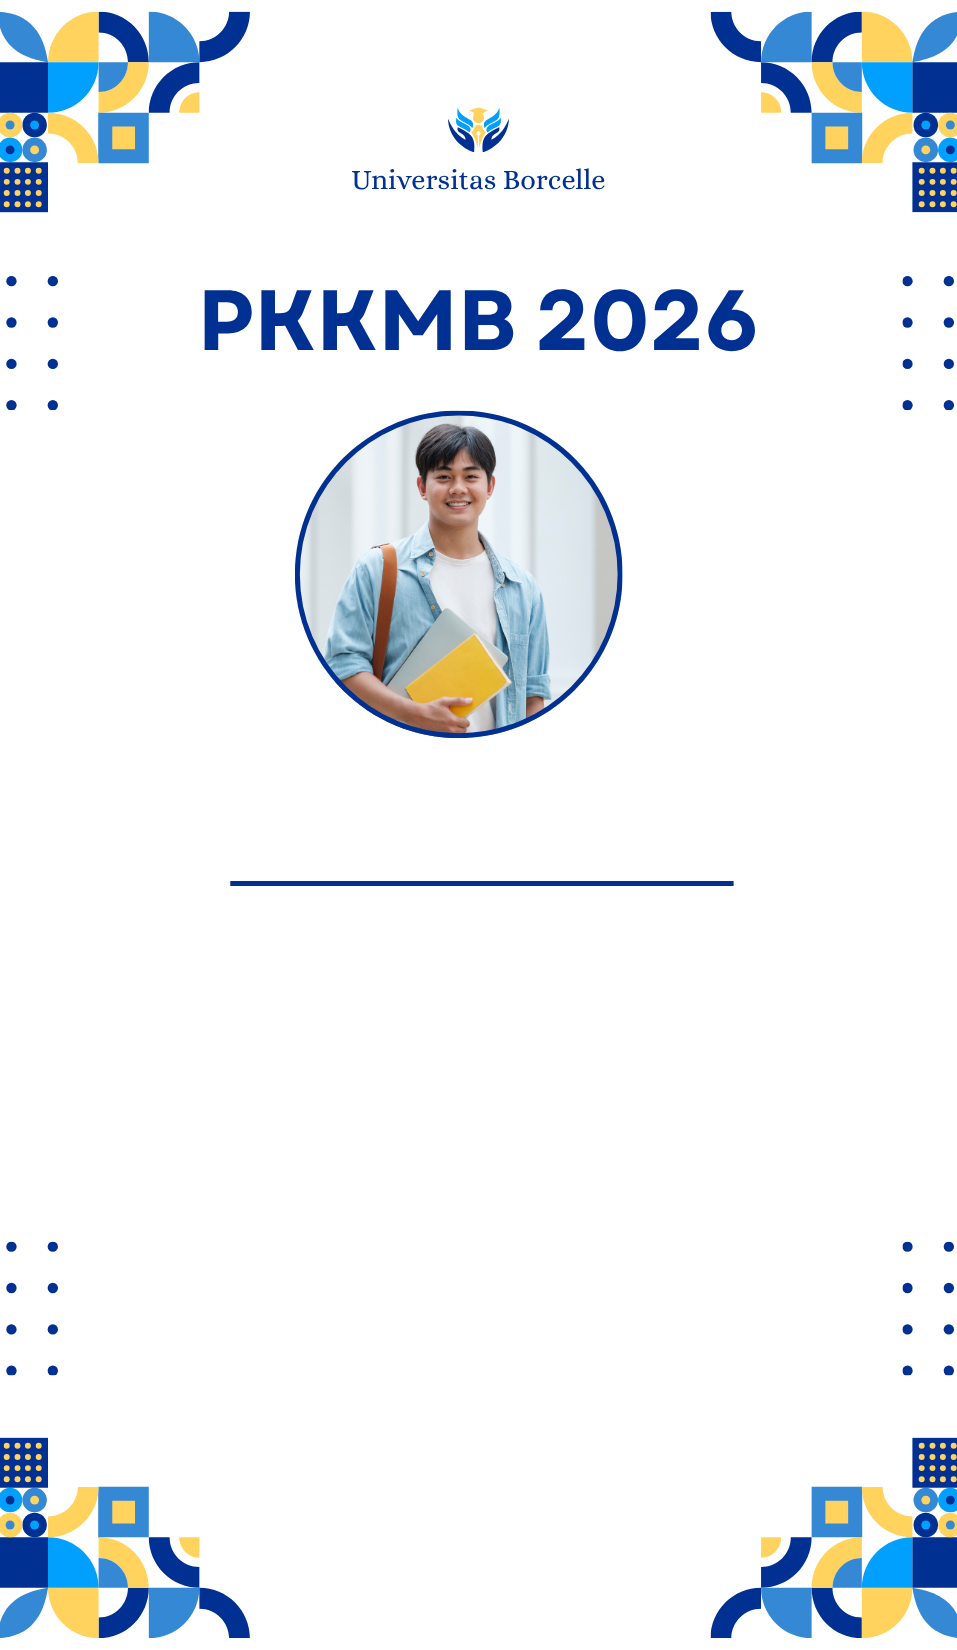
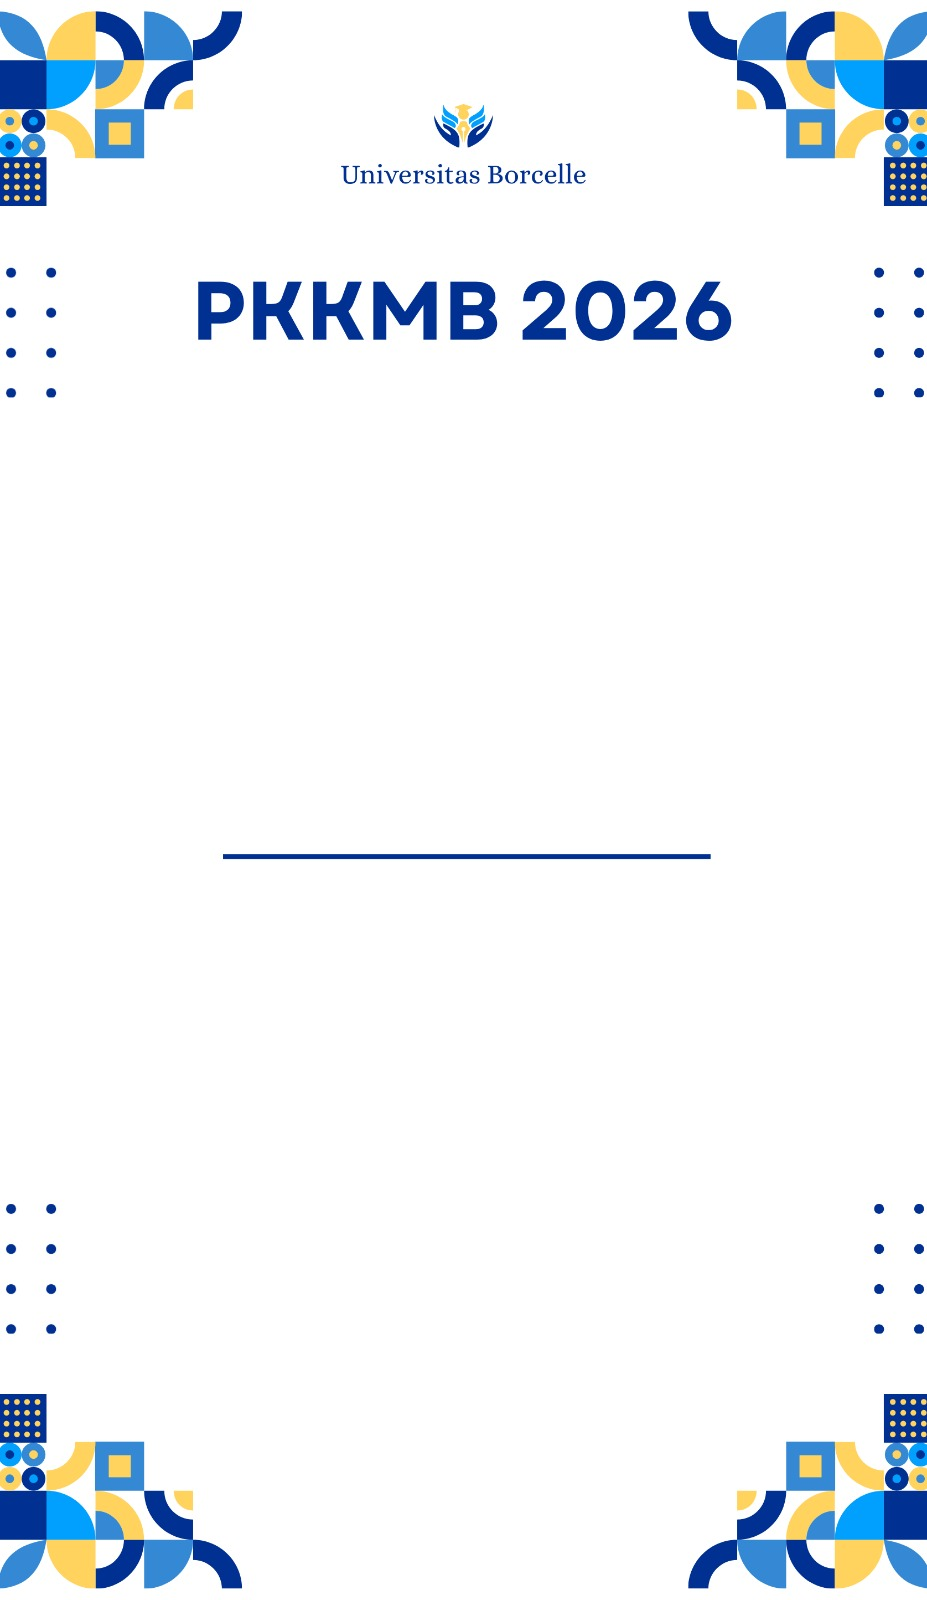
Fix photo kartu mahasiswa

diff --git a/Siabsensi/resources/views/mahasiswa/profile.blade.php b/Siabsensi/resources/views/mahasiswa/profile.blade.php
@@ -37,18 +37,14 @@
   <div style="display:flex;align-items:center;gap:24px;flex-wrap:wrap">
     {{-- Preview foto lingkaran --}}
     <div style="position:relative;flex-shrink:0">
-      @if($mahasiswa->photo_path)
-        <img id="photo-preview"
-             src="{{ asset('storage/' . $mahasiswa->photo_path) }}"
-             alt="Foto Profil"
-             style="width:110px;height:110px;border-radius:50%;object-fit:cover;border:3px solid var(--primary);display:block">
-      @else
-        <div id="photo-preview-placeholder"
-             style="width:110px;height:110px;border-radius:50%;background:var(--primary-light);display:flex;align-items:center;justify-content:center;border:3px dashed var(--primary)">
-          <span class="material-symbols-outlined" style="font-size:48px;color:var(--primary);opacity:0.6">person</span>
-        </div>
-        <img id="photo-preview" src="" alt="Preview" style="width:110px;height:110px;border-radius:50%;object-fit:cover;border:3px solid var(--primary);display:none">
-      @endif
+      <div id="photo-preview-placeholder"
+           style="width:110px;height:110px;border-radius:50%;background:var(--primary-light);display:{{ $mahasiswa->photo_path ? 'none' : 'flex' }};align-items:center;justify-content:center;border:3px dashed var(--primary)">
+        <span class="material-symbols-outlined" style="font-size:48px;color:var(--primary);opacity:0.6">person</span>
+      </div>
+      <img id="photo-preview"
+           src="{{ $mahasiswa->photo_path ? asset('storage/' . $mahasiswa->photo_path) : '' }}"
+           alt="Foto Profil"
+           style="width:110px;height:110px;border-radius:50%;object-fit:cover;border:3px solid var(--primary);display:{{ $mahasiswa->photo_path ? 'block' : 'none' }}">
       @if($mahasiswa->photo_path)
         <div style="position:absolute;bottom:2px;right:2px;width:28px;height:28px;background:var(--primary);border-radius:50%;display:flex;align-items:center;justify-content:center;border:2px solid white">
           <span class="material-symbols-outlined" style="font-size:14px;color:white">check</span>
@@ -63,12 +59,24 @@
         <span>Foto belum diupload. <strong>Download sertifikat/ID card tidak tersedia</strong> sebelum foto dilengkapi.</span>
       </div>
       @endif
+      
+      <div style="background:#dbeafe;border:1px solid #3b82f6;border-radius:8px;padding:10px 14px;margin-bottom:12px;font-size:12px;color:#1e40af">
+        <strong style="display:block;margin-bottom:4px">📸 Ketentuan Foto:</strong>
+        <ul style="margin:4px 0 0 16px;padding:0;line-height:1.6">
+          <li>Foto <strong>pribadi</strong> (tidak bersama orang lain)</li>
+          <li>Wajah terlihat jelas dan menghadap kamera</li>
+          <li>Latar belakang polos/rapi (disarankan)</li>
+          <li>Format: JPG, PNG, atau WEBP</li>
+          <li>Ukuran maksimal: 2 MB</li>
+        </ul>
+      </div>
+      
       <form action="{{ route('mahasiswa.profile.photo') }}" method="POST" enctype="multipart/form-data">
         @csrf
         <label style="font-size:13px;font-weight:600;color:var(--text-muted);display:block;margin-bottom:8px">
-          Upload Foto Baru (JPG/PNG/WEBP, max 2MB)
+          Upload Foto {{ $mahasiswa->photo_path ? 'Baru' : '' }} (JPG/PNG/WEBP, max 2MB)
         </label>
-        <div style="display:flex;gap:10px;flex-wrap:wrap">
+        <div style="display:flex;gap:10px;flex-wrap:wrap;align-items:center">
           <label style="cursor:pointer;display:inline-flex;align-items:center;gap:6px;padding:9px 16px;background:var(--bg);border:1px solid var(--border);border-radius:6px;font-size:13px;font-weight:600;transition:all 0.2s" onmouseover="this.style.borderColor='var(--primary)'" onmouseout="this.style.borderColor='var(--border)'">
             <span class="material-symbols-outlined" style="font-size:16px">upload</span>
             Pilih Foto
@@ -77,6 +85,11 @@
           <button type="submit" id="btn-upload-foto" class="btn btn-primary" style="padding:9px 18px;font-size:13px" disabled>
             <span class="material-symbols-outlined" style="font-size:16px">save</span> Simpan Foto
           </button>
+          @if($mahasiswa->photo_path)
+          <span style="font-size:12px;color:var(--text-muted);font-style:italic">
+            Foto saat ini akan diganti dengan foto baru
+          </span>
+          @endif
         </div>
       </form>
     </div>

diff --git a/Siabsensi/resources/views/mahasiswa/qr-code.blade.php b/Siabsensi/resources/views/mahasiswa/qr-code.blade.php
@@ -27,21 +27,29 @@
       
       <!-- Area Foto (Di atas nama, bentuk bulat) -->
       @if($mahasiswa->photo_path)
-      <div style="position: absolute; top: 16%; left: 50%; transform: translateX(-50%); width: 400px; height: 400px; border-radius: 50%; overflow: hidden; z-index: 5; border: 8px solid white; box-shadow: 0 10px 20px rgba(0,0,0,0.1);">
-        <img src="{{ Storage::url($mahasiswa->photo_path) }}" alt="Foto" style="width: 100%; height: 100%; object-fit: cover;">
+      <div style="position: absolute; top: 24%; left: 50%; transform: translateX(-50%); width: 340px; height: 340px; z-index: 5; flex-shrink: 0;">
+        <!-- White border circle -->
+        <div style="position: absolute; width: 340px; height: 340px; border-radius: 50%; background: white; box-shadow: 0 10px 30px rgba(0,0,0,0.15);"></div>
+        <!-- Image container -->
+        <div style="position: absolute; width: 320px; height: 320px; top: 10px; left: 10px; border-radius: 50%; background: white; overflow: hidden;">
+          <img src="{{ asset('storage/' . $mahasiswa->photo_path) }}" 
+               alt="Foto" 
+               crossorigin="anonymous"
+               style="width: 320px; height: 320px; object-fit: cover; object-position: center; display: block; border-radius: 50%;">
+        </div>
       </div>
       @endif
 
       <!-- Area Nama (Di atas garis) -->
-      <div style="position: absolute; top: 48%; left: 0; right: 0; text-align: center; padding: 0 40px; z-index: 10;">
-        <div style="font-size: 45px; font-weight: 800; color: #1e3a8a; text-transform: uppercase; letter-spacing: -1px; line-height: 1.2; word-break: break-word;">
+      <div style="position: absolute; top: 46.5%; left: 0; right: 0; text-align: center; padding: 0 50px; z-index: 10;">
+        <div style="font-size: 48px; font-weight: 800; color: #1e3a8a; text-transform: uppercase; letter-spacing: -1px; line-height: 1.2; word-break: break-word;">
           {{ $mahasiswa->name }}
         </div>
       </div>
 
       <!-- Area QR (Di bawah garis) -->
-      <div style="position: absolute; top: 62%; left: 50%; transform: translateX(-50%); display: flex; justify-content: center; align-items: center; z-index: 5;">
-        <div style="transform: scale(2.6); transform-origin: center center; mix-blend-mode: multiply;">
+      <div style="position: absolute; top: 60%; left: 50%; transform: translateX(-50%); display: flex; justify-content: center; align-items: center; z-index: 5;">
+        <div style="transform: scale(2.8); transform-origin: center center; mix-blend-mode: multiply;">
           {!! str_replace(['fill="#ffffff"', 'fill="#fff"'], 'fill="transparent"', $qrImage) !!}
         </div>
       </div>
@@ -75,26 +83,26 @@ function downloadQR() {
     btn.style.opacity = '0.8';
     btn.disabled = true;
     
-    // Temporarily remove transform and border-radius for clean export
+    // Temporarily remove transform, shadow, and border for clean export
     const originalTransform = card.style.transform;
-    const originalRadius = card.style.borderRadius;
     const originalShadow = card.style.boxShadow;
     const originalBorder = card.style.border;
     
     card.style.transform = 'none';
-    card.style.borderRadius = '0';
     card.style.boxShadow = 'none';
     card.style.border = 'none';
     
     html2canvas(card, {
         scale: 1, // Native resolution is already 957x1650, so scale 1 is enough!
-        useCORS: true, 
+        useCORS: true,
+        allowTaint: true,
         backgroundColor: '#ffffff',
-        logging: false
+        logging: false,
+        imageTimeout: 0,
+        removeContainer: true
     }).then(canvas => {
         // Restore styles
         card.style.transform = originalTransform;
-        card.style.borderRadius = originalRadius;
         card.style.boxShadow = originalShadow;
         card.style.border = originalBorder;
         
@@ -114,7 +122,6 @@ function downloadQR() {
         
         // Restore styles on error
         card.style.transform = originalTransform;
-        card.style.borderRadius = originalRadius;
         card.style.boxShadow = originalShadow;
         card.style.border = originalBorder;
         btn.innerHTML = originalText;
